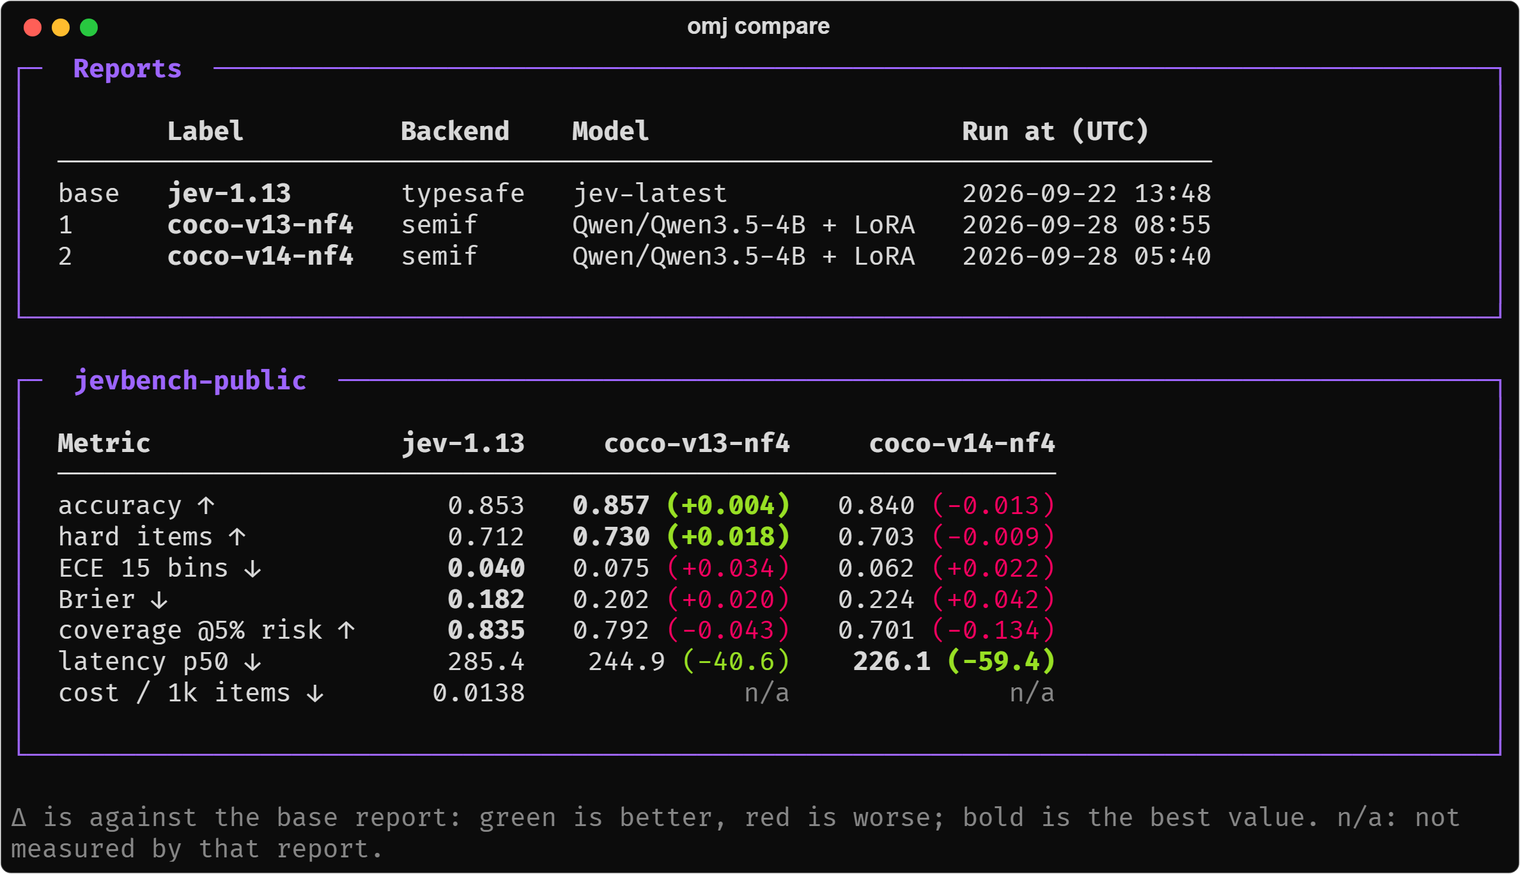
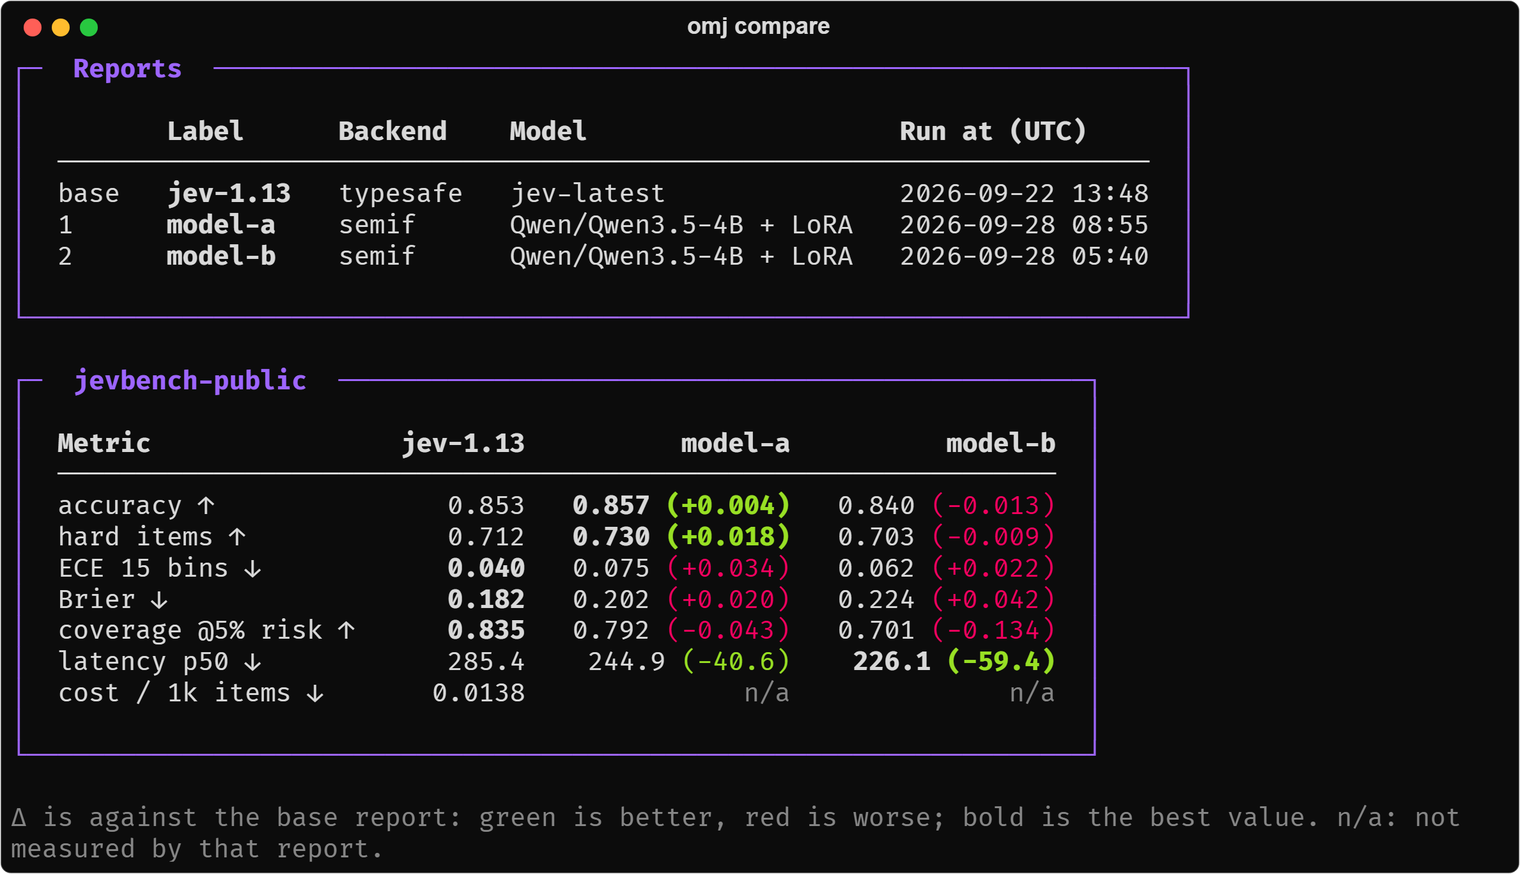
Use neutral example names in docs and screenshots
Replace organisation-specific model ids in the READMEs, a docstring and a
unit test with placeholders, and regenerate the bench and compare
screenshots with generic labels.

Claude-Session: https://claude.ai/code/session_01NGmao16kE12vp1G7vhF7vg

diff --git a/tests/unit/test_sizing.py b/tests/unit/test_sizing.py
@@ -17,7 +17,7 @@ from omj.models.sizing import auto_quant, is_hf_id, named_model_backend, param_b
         ("Qwen/Qwen3.5-0.8B", 0.8),
         ("meta-llama/Llama-3.2-3B-Instruct", 3.0),
         ("google/gemma-3-1b-it", 1.0),
-        ("corners-ai/CoCo-Decision-4B-Ko", 4.0),
+        ("example-org/Decision-4B-Adapter", 4.0),
         ("mistralai/Mixtral-8x7B-v0.1", None),
         ("org/no-size-tag", None),
     ],
@@ -59,7 +59,7 @@ def test_resolve_named_model_loads_an_adapter_repo_on_its_base(omj_home: Path) -
 
     from omj.models.sizing import resolve_named_model
 
-    repo = omj_home / "models" / "corners-ai__CoCo-Decision-4B-Ko" / "main"
+    repo = omj_home / "models" / "example-org__Decision-4B-Adapter" / "main"
     repo.mkdir(parents=True)
     (repo / ".omj-complete").write_text("")
     (repo / "adapter_config.json").write_text(
@@ -67,7 +67,7 @@ def test_resolve_named_model_loads_an_adapter_repo_on_its_base(omj_home: Path) -
     )
     base = {"name": "mock", "model": "", "revision": "", "quant": "bf16", "adapter": "", "calibration": ""}
 
-    out, note = resolve_named_model(base, "corners-ai/CoCo-Decision-4B-Ko", 8.0)
+    out, note = resolve_named_model(base, "example-org/Decision-4B-Adapter", 8.0)
 
     assert (out["name"], out["model"], out["revision"], out["quant"]) == ("semif", "Qwen/Qwen3.5-4B", "851bf6e8", "nf4")
     assert out["adapter"] == str(repo) and "LoRA adapter" in note

diff --git a/src/omj/models/sizing.py b/src/omj/models/sizing.py
@@ -77,7 +77,7 @@ def resolve_named_model(backend: dict, model_id: str, vram_gb: float | None) -> 
     """The semif section for `--model org/name`, which may be a full model or a LoRA adapter repo.
 
     An adapter repo is downloaded (it is small) and loaded on the base model it names, so
-    `omj bench --model corners-ai/CoCo-Decision-4B-Ko` works like any other model id.
+    `omj bench --model your-org/your-lora-adapter` works like any other model id.
     """
     if not _is_adapter_repo(model_id):
         return named_model_backend(backend, model_id, vram_gb), None

diff --git a/README.md b/README.md
@@ -139,7 +139,7 @@ Every `omj bench` result ends with a **vs Jev** table (accuracy, ECE and Brier d
 To put finished runs side by side:
 
 ```bash
-uv run omj compare jev/report.json coco-v13/report.json coco-v14/report.json --labels jev-1.13,coco-v13-nf4,coco-v14-nf4 --out runs/cmp
+uv run omj compare jev/report.json run-a/report.json run-b/report.json --labels jev-1.13,model-a,model-b --out runs/cmp
 ```
 
 <div align="center">
@@ -174,7 +174,7 @@ uv run omj compare runs/qwen-0.8b/report.json runs/qwen-2b/report.json --labels 
 
 - Any `AutoModelForCausalLM` checkpoint whose tokenizer encodes `" A"`, `" B"`, ... as single tokens. Models that need `trust_remote_code` are not loaded.
 - The model is loaded in bf16, or in 4-bit when its size tag (for example `4B`) says it would not fit your GPU in bf16.
-- A LoRA adapter repo works too: `--model corners-ai/CoCo-Decision-4B-Ko` downloads the adapter and loads it on the base model it was trained on. `--adapter <dir>` does the same for a local adapter.
+- A LoRA adapter repo works too: `--model your-org/your-lora-adapter` downloads the adapter and loads it on the base model it was trained on. `--adapter <dir>` does the same for a local adapter.
 - Gated models (for example Llama or Gemma) need `hf auth login` and an accepted licence first.
 - Models trained by other projects with their own prompt format (Kev, Open-Jev and similar) are best measured through their own server: `uv run omj bench --endpoint http://127.0.0.1:<port>`.
 
